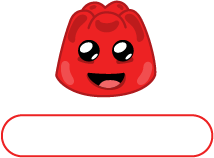
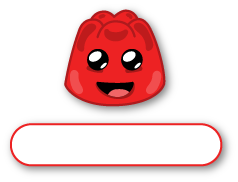
design changes

Changed region(s): [[0.0, 0.6582, 1.0, 1.0], [0.2523, 0.0, 0.757, 0.6329]]

diff --git a/src/js/scenes/WinScene.js b/src/js/scenes/WinScene.js
@@ -13,7 +13,7 @@ export default class WinScene extends Phaser.Scene {
     this.color = data.winner;
     this.index = 0;
     this.players.forEach((player, index) => {
-      if (player.color > this.color) {
+      if (player.color === this.color) {
         this.index = index;
       }
     });
@@ -57,11 +57,12 @@ export default class WinScene extends Phaser.Scene {
       this.enabled = false;
     }
 
-    this.add.image(307, 418, `bg_win`);
+    this.add.image(354, 410, `bg_win`);
     this.particles = this.add.particles(`star`);
     this.particles.createEmitter({
       x: 310,
       y: 340,
+      angle: {min: - 210, max: 30},
       speed: 140,
       lifespan: 1000,
       quantity: 1,
@@ -85,10 +86,10 @@ export default class WinScene extends Phaser.Scene {
       .setScale(0.5)
       .play(`${this.winner.color}Animatie`);
     this.add
-      .text(310, 390, `${this.winner.name}`, this.textConfig(this.winner))
+      .text(310, 400, `${this.winner.name}`, this.textConfig(this.winner))
       .setOrigin(0.5, 0);
     this.add
-      .text(310, 425, `${this.winner.score}`, this.textConfig(this.winner))
+      .text(310, 435, `${this.winner.score}`, this.textConfig(this.winner))
       .setOrigin(0.5, 0);
 
     this.i = 0;
@@ -99,12 +100,12 @@ export default class WinScene extends Phaser.Scene {
       this.placex2 = 260;
     }
     if (this.players.length === 2) {
-      this.placex = 230;
-      this.placex2 = 160;
+      this.placex = 210;
+      this.placex2 = 200;
     }
     if (this.players.length === 3) {
-      this.placex = 180;
-      this.placex2 = 130;
+      this.placex = 130;
+      this.placex2 = 180;
     }
     this.players.forEach((player, index) => {
       this.anims.remove(`${player.color}Animatie`);
@@ -130,16 +131,8 @@ export default class WinScene extends Phaser.Scene {
       this.add
         .text(
           this.placex + this.i * this.placex2,
-          625,
+          635,
           `${player.name}`,
-          this.textConfig(player)
-        )
-        .setOrigin(0.5, 0);
-      this.add
-        .text(
-          this.placex + this.i * this.placex2,
-          660,
-          `${player.score}`,
           this.textConfig(player)
         )
         .setOrigin(0.5, 0);
@@ -166,7 +159,7 @@ export default class WinScene extends Phaser.Scene {
     return {
       fontFamily: 'Ubuntu',
       fontStyle: 'Bold',
-      fontSize: 24,
+      fontSize: 26,
       color: `${player.color}`
     };
   }

diff --git a/src/js/scenes/PreloadScene.js b/src/js/scenes/PreloadScene.js
@@ -36,7 +36,6 @@ import './../../assets/orangeTextEntry.png';
 import './../../assets/purpleTextEntry.png';
 import './../../assets/blueTextEntry.png';
 import './../../assets/star.png';
-import './../../assets/specialButton.png';
 import './../../assets/bg_scores.png';
 import './../../assets/scoresButton.png';
 import './../../assets/tutorialButton.png';
@@ -44,6 +43,10 @@ import './../../assets/mask1.png';
 import './../../assets/shadow.png';
 import './../../assets/hiJelly.png';
 import './../../assets/highlight.png';
+import './../../assets/orangeScore.png';
+import './../../assets/redScore.png';
+import './../../assets/purpleScore.png';
+import './../../assets/blueScore.png';
 
 export default class PreloadScene extends Phaser.Scene {
   constructor() {
@@ -77,7 +80,6 @@ export default class PreloadScene extends Phaser.Scene {
     this.load.image(`goToStart`, `./assets/goToStart.png`);
     this.load.image(`purpleVakje`, `./assets/purpleVakje.png`);
     this.load.image(`star`, `./assets/star.png`);
-    this.load.image(`specialButton`, `./assets/specialButton.png`);
     this.load.image(`reload_game`, `./assets/reload_game.png`);
     this.load.image(`redVakje`, `./assets/redVakje.png`);
     this.load.image(`blueVakje`, `./assets/blueVakje.png`);
@@ -93,6 +95,10 @@ export default class PreloadScene extends Phaser.Scene {
     this.load.image('shadow', './assets/shadow.png');
     this.load.image('hiJelly', './assets/hiJelly.png');
     this.load.image('highlight', './assets/highlight.png');
+    this.load.image('redScore', './assets/redScore.png');
+    this.load.image('orangeScore', './assets/orangeScore.png');
+    this.load.image('purpleScore', './assets/purpleScore.png');
+    this.load.image('blueScore', './assets/blueScore.png');
     this.load.atlas(
       `redJelly's`,
       `./assets/redJelly's.png`,
@@ -179,12 +185,12 @@ export default class PreloadScene extends Phaser.Scene {
     console.log(`Loading: ${Math.round(value * 100)}%`);
 
     this.preloader.clear();
-    this.preloader.fillStyle(0xff0000, 1);
+    this.preloader.fillStyle(0xeb8766, 1);
     this.preloader.fillRect(
       this.game.config.width / 2 - 150,
-      this.game.config.height / 2,
+      this.game.config.height / 2 - 20,
       (this.game.config.width / 2) * value,
-      8
+      20
     );
   }
 

diff --git a/src/js/scenes/ScoresScene.js b/src/js/scenes/ScoresScene.js
@@ -12,13 +12,15 @@ export default class ScoresScene extends Phaser.Scene {
   preload() {}
 
   create() {
+    this.add.image(354, 410, `bg_scores`);
     getScoresAsync().then(scores => {
       scores.forEach((score, index) => {
         let i = 1;
-        const placex = 0;
+        const placex = - 20;
         const placex2 = 130;
-        const height = 100 * index;
-        if (score.name1 !== 'undefined' && score.color1 !== 'undefined') {
+        const height = 90 * index;
+        this.add.image(310, 637 - height, `${score.winner_color}Score`);
+        if (score.name1 !== 'undefined') {
           this.addPlayerScore(
             score.name1,
             score.color1,
@@ -29,7 +31,7 @@ export default class ScoresScene extends Phaser.Scene {
           );
           i ++;
         }
-        if (score.name2 !== 'undefined' && score.color2 !== 'undefined') {
+        if (score.name2 !== 'undefined') {
           this.addPlayerScore(
             score.name2,
             score.color2,
@@ -40,7 +42,7 @@ export default class ScoresScene extends Phaser.Scene {
           );
           i ++;
         }
-        if (score.name3 !== 'undefined' && score.color3 !== 'undefined') {
+        if (score.name3 !== 'undefined') {
           this.addPlayerScore(
             score.name3,
             score.color3,
@@ -54,9 +56,10 @@ export default class ScoresScene extends Phaser.Scene {
         this.particles = this.add.particles(`star`);
         this.particles.createEmitter({
           x: placex + i * placex2,
-          y: 640 - height,
+          y: 620 - height,
+          angle: {min: - 190, max: 10},
           speed: 50,
-          lifespan: 500,
+          lifespan: 800,
           quantity: 1,
           scale: {start: 0.1, end: 0.3}
         });
@@ -70,8 +73,6 @@ export default class ScoresScene extends Phaser.Scene {
         );
       });
     });
-
-    this.add.image(292, 434, `bg_scores`);
 
     this.goToStart = this.add.sprite(310, 750, `goToStart`).setInteractive();
     this.goToStart.on('pointerdown', () => this.goToStart.setScale(1.03));
@@ -96,7 +97,7 @@ export default class ScoresScene extends Phaser.Scene {
     return {
       fontFamily: 'Ubuntu',
       fontStyle: 'Bold',
-      fontSize: 24,
+      fontSize: 20,
       color: `${color}`
     };
   }

diff --git a/src/js/scenes/ChooseScene.js b/src/js/scenes/ChooseScene.js
@@ -17,7 +17,7 @@ export default class ChooseScene extends Phaser.Scene {
   preload() {}
 
   create() {
-    this.add.image(318, 382, `bg_choose`);
+    this.add.image(317, 382, `bg_choose`).setScale(1.005);
     this.red = this.add.sprite(170, 385, `redTextEntry`).setInteractive();
     this.orange = this.add.sprite(450, 385, `orangeTextEntry`).setInteractive();
     this.purple = this.add.sprite(170, 590, `purpleTextEntry`).setInteractive();
@@ -48,7 +48,7 @@ export default class ChooseScene extends Phaser.Scene {
         this.textEntryRed = undefined;
       } else {
         this.textEntryRed = this.add
-          .text(170, 432, '', {
+          .text(170, 429, '', {
             font: '30px Ubuntu',
             fill: `red`
           })
@@ -65,7 +65,7 @@ export default class ChooseScene extends Phaser.Scene {
         this.textEntryOrange = undefined;
       } else {
         this.textEntryOrange = this.add
-          .text(450, 432, '', {
+          .text(450, 429, '', {
             font: '30px Ubuntu',
             fill: `orange`
           })
@@ -82,7 +82,7 @@ export default class ChooseScene extends Phaser.Scene {
         this.textEntryPurple = undefined;
       } else {
         this.textEntryPurple = this.add
-          .text(170, 637, '', {
+          .text(170, 634, '', {
             font: '30px Ubuntu',
             fill: `purple`
           })
@@ -99,7 +99,7 @@ export default class ChooseScene extends Phaser.Scene {
         this.textEntryBlue = undefined;
       } else {
         this.textEntryBlue = this.add
-          .text(450, 637, '', {
+          .text(450, 634, '', {
             font: '30px Ubuntu',
             fill: `blue`
           })
@@ -125,7 +125,7 @@ export default class ChooseScene extends Phaser.Scene {
         event.keyCode === 32 ||
         (event.keyCode >= 48 && event.keyCode < 90)
       ) {
-        if (textEntry.text.length < 11) textEntry.text += event.key;
+        if (textEntry.text.length < 10) textEntry.text += event.key;
       }
     });
   }

diff --git a/src/js/scenes/GameScene.js b/src/js/scenes/GameScene.js
@@ -36,6 +36,7 @@ export default class GameScene extends Phaser.Scene {
   }
 
   update() {
+    this.jellyManager.update();
     this.i = 0;
     this.playerManager.playerScores.forEach(score => {
       this.playerManager.players[this.i].score = 0;
@@ -52,8 +53,6 @@ export default class GameScene extends Phaser.Scene {
       score.setText(`${this.playerManager.players[this.i].score}`);
       this.i ++;
     });
-
-    this.jellyManager.update();
   }
 
   destroyTripleJellys(grow) {

diff --git a/src/js/scenes/StartScene.js b/src/js/scenes/StartScene.js
@@ -10,7 +10,7 @@ export default class StartScene extends Phaser.Scene {
   preload() {}
 
   create() {
-    this.add.image(318, 382, `bg`);
+    this.add.image(317.6, 382, `bg`).setScale(1.005);
     this.play = this.add.sprite(311, 664, `play`).setInteractive();
     this.play.on('pointerdown', () => this.play.setScale(1.03));
     this.play.on('pointerup', () => {

diff --git a/src/style.css b/src/style.css
@@ -25,5 +25,5 @@ body {
   display: flex;
   justify-content: center;
   align-items: center;
-  background-color: black;
+  background: linear-gradient(-160deg, #f4d566, #eb8766 80%);
 }
